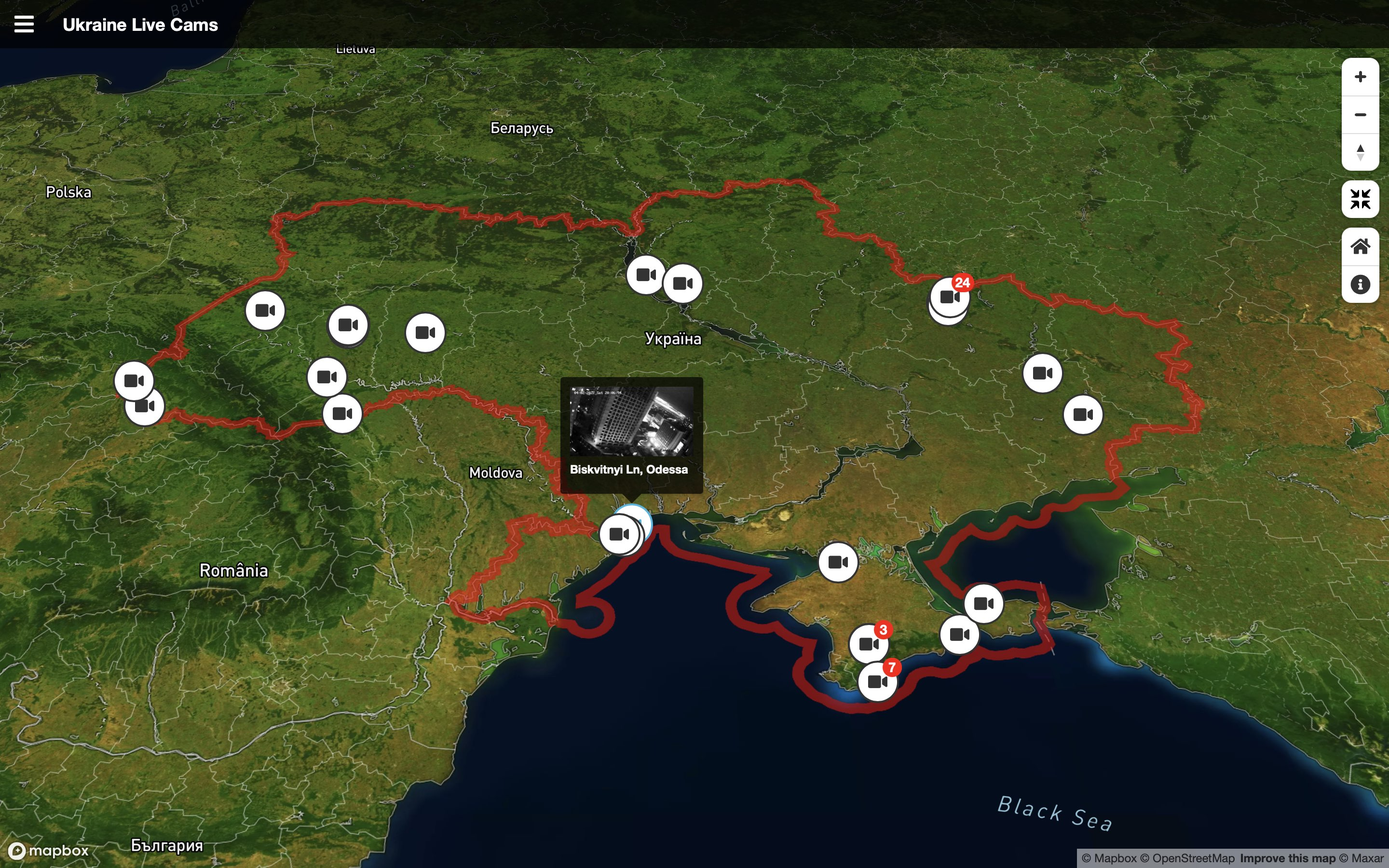
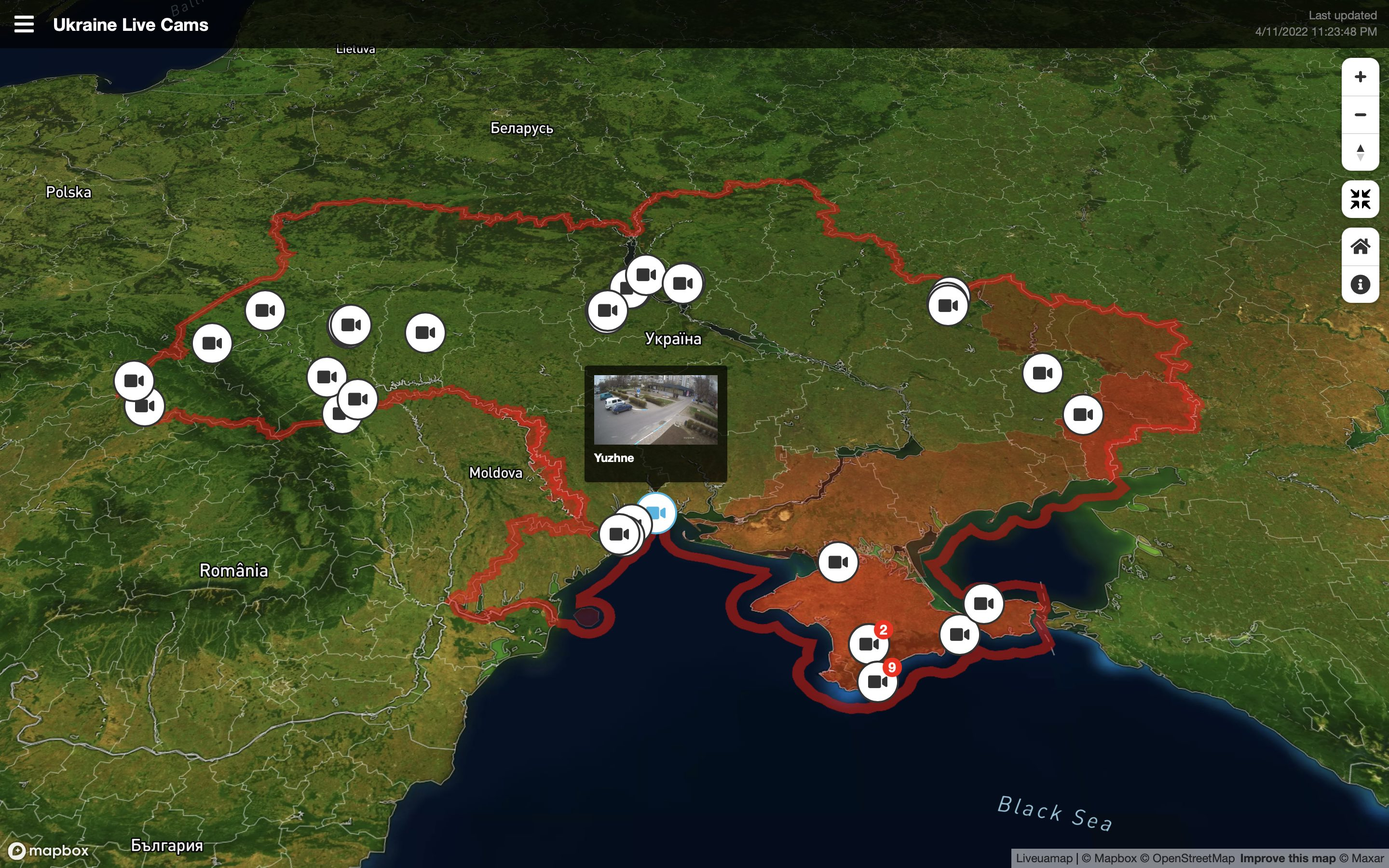
Display last updated time

diff --git a/index.html b/index.html
@@ -34,6 +34,7 @@
             <div class="title">
                 <div id="title-menu" class="title-menu"></div>
                 <div class="title-text">Ukraine Live Cams</div>
+                <div id="last-updated-text" class="title-notes"></div>
             </div>
             <div id="camera-list" class="camera-list"></div>
             <div id="info-bg" class="bg">
@@ -64,6 +65,11 @@
         const LIVECAMS_URL = 'https://mini-tokyo.appspot.com/ukraine-livecams';
 
         const dict = {
+            'last-updated': {
+                'en': 'Last updated',
+                'uk': 'Останнє оновлення',
+                'ja': '最終更新'
+            },
             'watching-now': {
                 'en': 'watching now',
                 'uk': 'Зараз дивляться',
@@ -333,10 +339,13 @@
                     for (const id of Object.keys(cameras)) {
                         delete cameras[id];
                     }
-                    for (const item of data) {
+                    for (const item of data.cameras) {
                         cameras[item.id] = item;
                     }
                     addMarkers(map);
+
+                    const date = new Date(data.timestamp * 1000);
+                    lastUpdatedElement.innerHTML = `${dict['last-updated'][lang]}<br>${date.toLocaleDateString(lang)} ${date.toLocaleTimeString(lang)}`
                 }
             });
         }
@@ -383,6 +392,7 @@
         const canvasElement = document.querySelector('#map .mapboxgl-canvas');
         const titleMenuElement = document.getElementById('title-menu');
         const cameraListElement = document.getElementById('camera-list');
+        const lastUpdatedElement = document.getElementById('last-updated-text');
         const infoBGElement = document.getElementById('info-bg');
 
         titleMenuElement.addEventListener(touchSupport ? 'touchend' : 'click', () => {

diff --git a/ukraine-livecams.css b/ukraine-livecams.css
@@ -61,9 +61,20 @@ html, body {
     vertical-align: middle;
 }
 .title-text {
-    padding-left: 10px;
     display: inline-block;
     vertical-align: top;
+}
+.title-notes {
+    padding-top: 8px;
+    padding-right: 12px;
+    display: inline-block;
+    vertical-align: top;
+    text-align: right;
+    float: right;
+    font-size: 12px;
+    line-height: 17px;
+    font-weight: normal;
+    color: #7f7f7f;
 }
 .bg {
     position: absolute;
